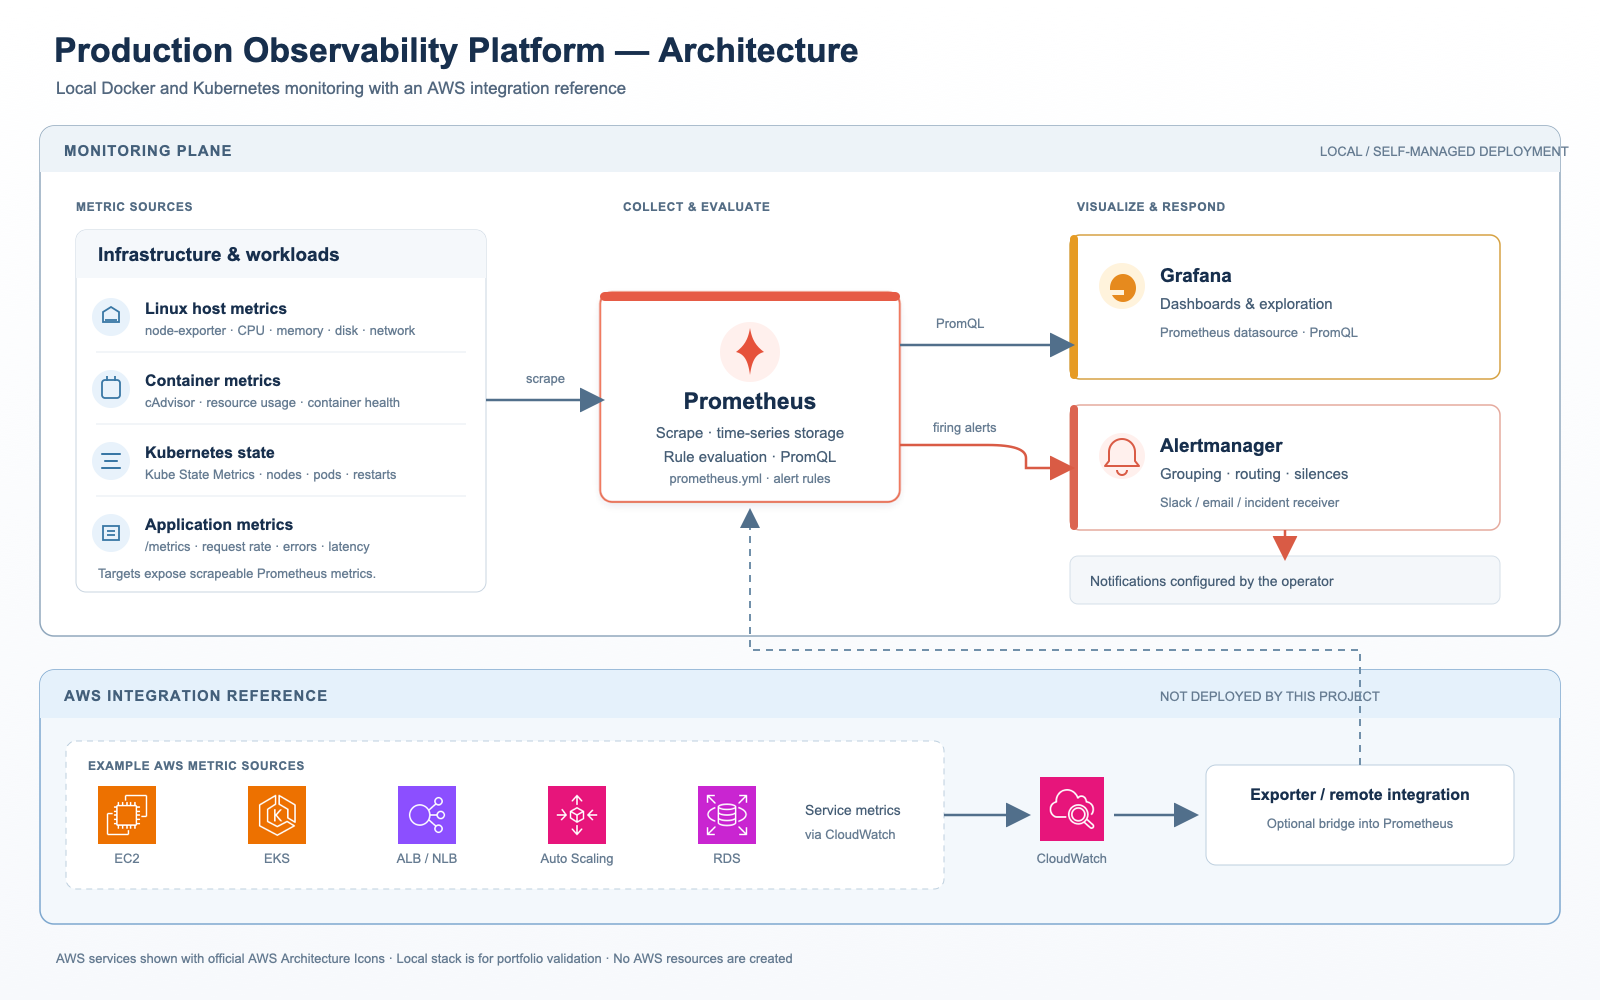
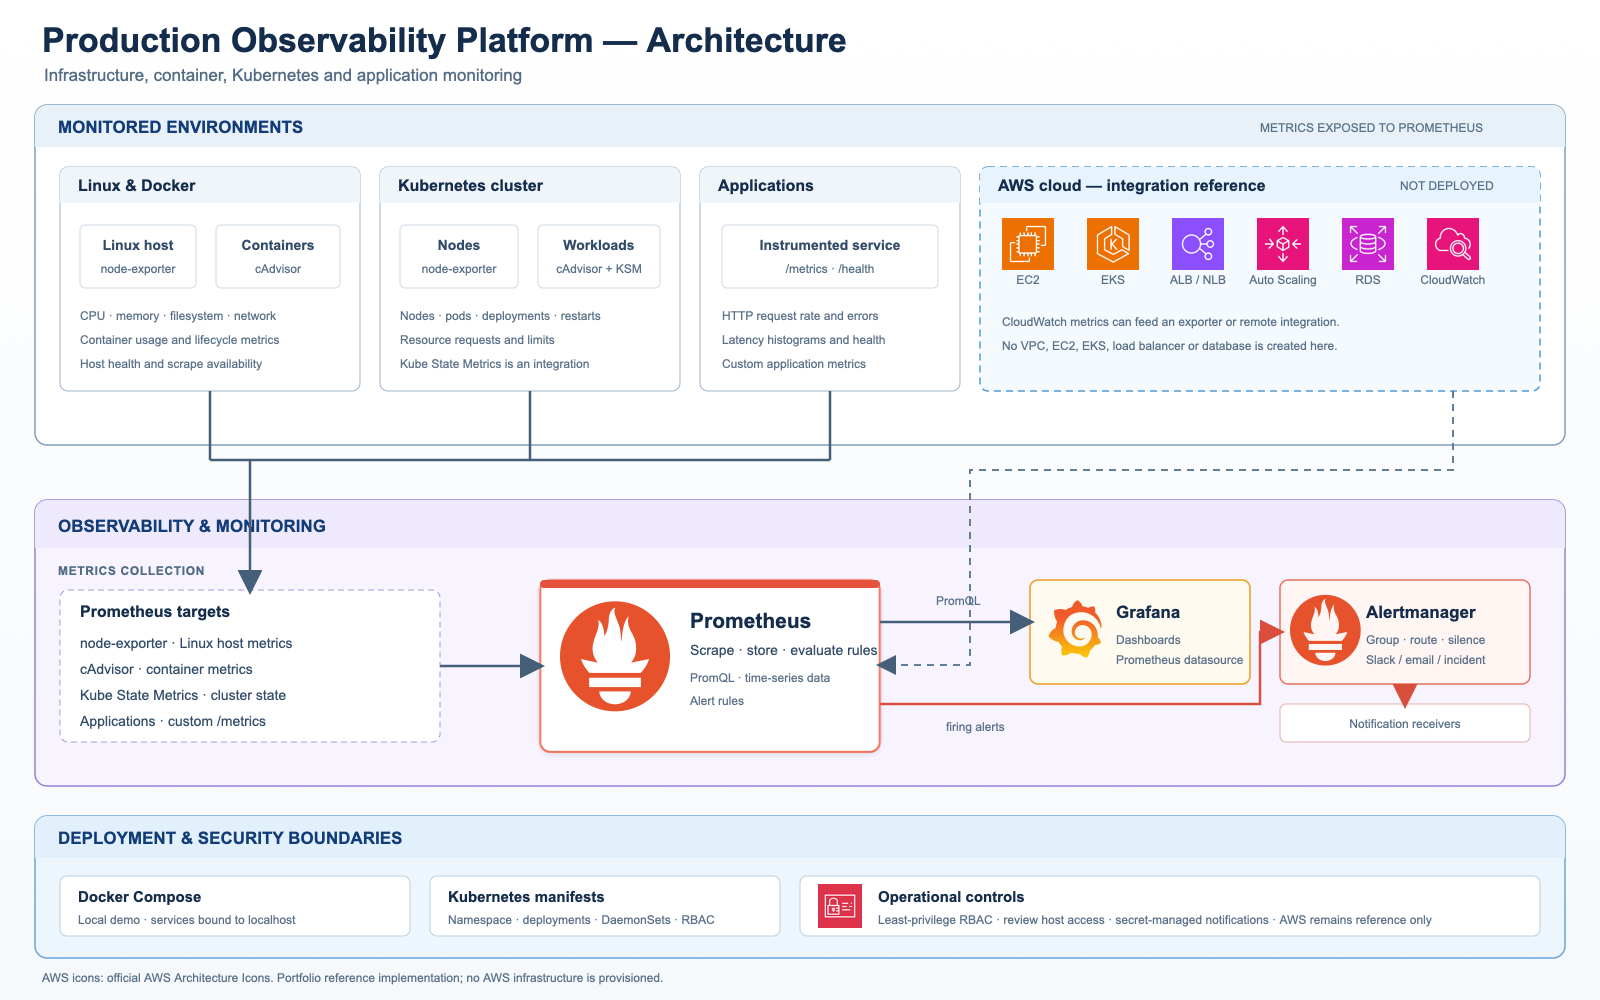
Align architecture diagram with reference layout

diff --git a/architecture/architecture.md b/architecture/architecture.md
@@ -4,31 +4,10 @@
 
 ## Signal flow
 
-```mermaid
-flowchart LR
-  subgraph sources[Monitored sources]
-    linux[Linux hosts\nnode-exporter]
-    containers[Docker hosts\ncAdvisor]
-    kube[Kubernetes\nKube State Metrics + node-exporter]
-    app[Instrumented applications\n/metrics and /health]
-    aws[AWS services\nCloudWatch integration reference]
-  end
-  prom[Prometheus\nscrape, store, evaluate rules]
-  graf[Grafana\ndashboards and exploration]
-  am[Alertmanager\ngroup, route, silence]
-  notify[Slack / email / incident receiver]
-  linux -->|scrape| prom
-  containers -->|scrape| prom
-  kube -->|scrape| prom
-  app -->|scrape| prom
-  aws -. optional exporter or remote integration .-> prom
-  prom -->|PromQL| graf
-  prom -->|firing alerts| am
-  am --> notify
-```
+Linux, Docker, Kubernetes, and instrumented applications expose metrics to Prometheus. Grafana queries Prometheus for dashboards. Prometheus sends firing alerts to Alertmanager, which routes notifications to configured receivers. AWS service metrics are an optional architecture reference and are not provisioned by this project.
 
 ## Boundaries and deployment choices
 
-The local Compose stack is a single-host demonstration. Prometheus scrapes local exporters and the demo application; Grafana and Alertmanager consume that Prometheus instance. In Kubernetes, Prometheus and Grafana run in the `observability` namespace, while node-exporter and cAdvisor run as DaemonSets. Application `/metrics` endpoints and Kube State Metrics must be added to scrape configuration for a target cluster.
+The local Compose stack is a single-host demonstration. The Kubernetes manifests provide a learning baseline for Prometheus, Grafana, node-exporter, and cAdvisor. Kube State Metrics is an integration target, not a deployment in this repository. Review RBAC, host mounts, storage, credentials, and network exposure before using these manifests in a production cluster.
 
-AWS is an architecture reference: EC2/EKS workloads can expose Prometheus metrics, and CloudWatch metrics can be bridged using an appropriate exporter or remote integration. This repository does not create VPCs, load balancers, clusters, databases, or other cloud resources.
+The AWS services in the diagram are integration references only. The repository does not create VPCs, EC2, EKS, load balancers, Auto Scaling groups, RDS, or other cloud resources.

diff --git a/architecture/icons/README.md b/architecture/icons/README.md
@@ -1,5 +1,7 @@
-# AWS Architecture Icons
+# Diagram icon assets
 
-The AWS service icons in this directory are official AWS Architecture Icons. They are included only for the AWS integration reference in `../architecture.png`; the project does not provision those AWS services.
+- The AWS service icons are official AWS Architecture Icons for EC2, EKS, Elastic Load Balancing, Auto Scaling, RDS, CloudWatch, and IAM. AWS makes these assets available for architecture diagrams through its [icon library](https://aws.amazon.com/architecture/icons/).
+- The Prometheus logo comes from `prometheus/prometheus/documentation/images/prometheus-logo.svg`.
+- The Grafana mark comes from `grafana/grafana/public/img/grafana_icon.svg`.
 
-Source and usage information: [AWS Architecture Icons](https://aws.amazon.com/architecture/icons/). Package release: 2026-07-31.
+These assets appear in `../architecture.png`. AWS services are reference integrations only; this project does not provision them.
